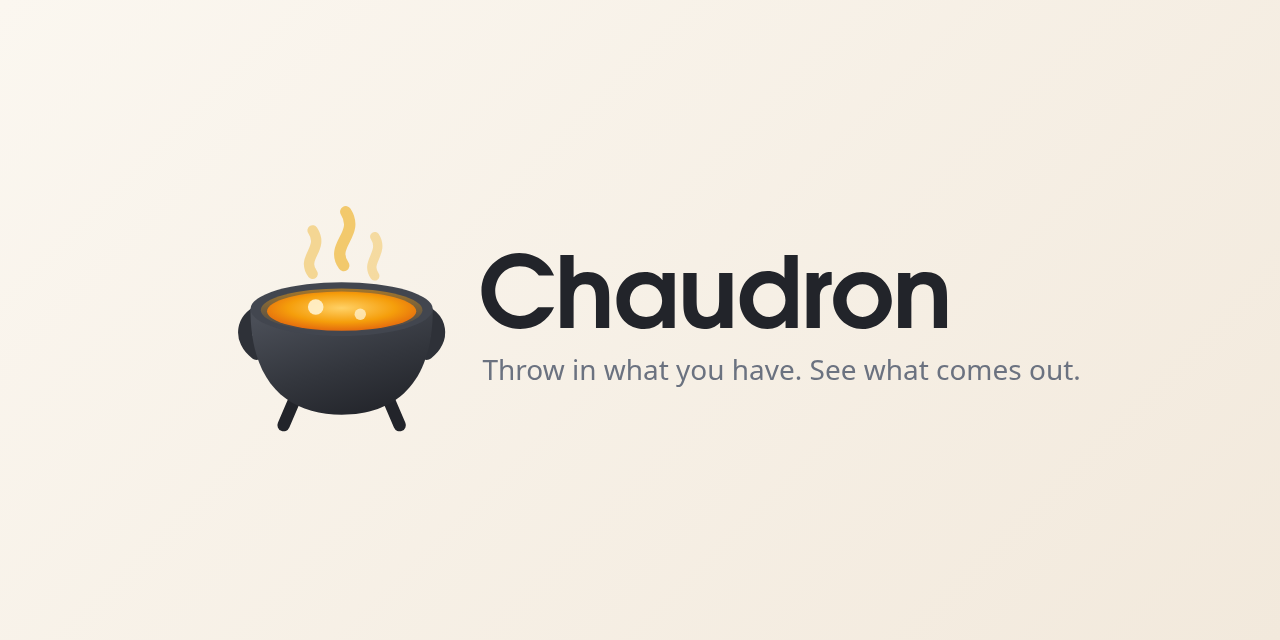
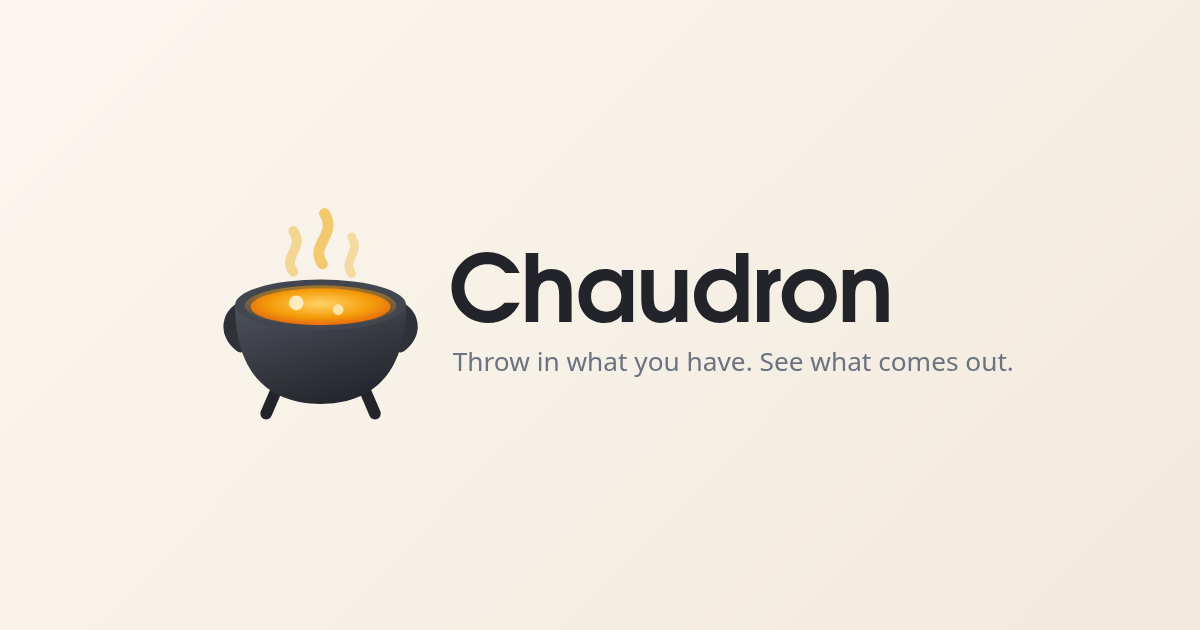
fix(brand): make the share card the ratio the platforms actually crop to
The Open Graph image was 1280x640 — a 2.00 ratio, where Facebook, LinkedIn and
X lay their large cards out on 1.91:1. Close enough to look right in a file
manager, and wrong everywhere it is used: each platform centre-crops, taking
about 4.5% off the height. The logo is centred so it survived, but nothing in
the pipeline said so, and the next visual with anything near an edge would have
been quietly beheaded once the link was posted.

Now 1200x630, with the logo keeping its share of the frame (880/1280 of the
width becomes 825/1200, height following its own 3.398:1 ratio rather than
being scaled independently). `og:image:width` and `og:image:height` in
index.html move with it — they are what stops the first share rendering as a
small thumbnail while the platform downloads and measures the file.

Also closes the gap that let this ship at all. `assets/` is generated and
`frontend/public/` is served, and the copy between them was manual: the
regenerated 1200x630 file sat in `assets/` while the page kept serving the
1280x640 one, with nothing comparing them. The generator now syncs the seven
web-served files itself and reports what it copied, so the two cannot drift
again. Re-running it a second time reports "already matches", which is the
check that the sync is real rather than unconditional.

Found by auditing the landing page against the StackOps web playbook, which
specifies the ratio and the width/height declaration by name.

diff --git a/frontend/index.html b/frontend/index.html
@@ -55,8 +55,8 @@
     />
     <meta property="og:image" content="__SITE_URL__/social-preview.png" />
     <meta property="og:image:type" content="image/png" />
-    <meta property="og:image:width" content="1280" />
-    <meta property="og:image:height" content="640" />
+    <meta property="og:image:width" content="1200" />
+    <meta property="og:image:height" content="630" />
     <meta
       property="og:image:alt"
       content="Le logo Chaudron : un chaudron en fonte et son contenu incandescent."

diff --git a/tools/generate-assets.py b/tools/generate-assets.py
@@ -17,9 +17,11 @@ Never hand-edit the generated PNGs. Edit the SVG, re-run this, commit both.
 from __future__ import annotations
 
 import asyncio
+import shutil
 import struct
 import sys
 from pathlib import Path
+from typing import Final
 
 from playwright.async_api import Browser, async_playwright
 
@@ -190,20 +192,31 @@ async def render_all() -> list[Path]:
             await shoot(browser, page_html(logo, 720, 212), 720, 212, ASSETS / "logo.png")
         )
 
+        # 1200x630, and the numbers are not arbitrary: that is 1.91:1, the ratio
+        # Facebook, LinkedIn and X lay their large cards out on. This was
+        # 1280x640 -- a 2.00 ratio, close enough to look right in a file manager
+        # and wrong everywhere it is actually used, because each platform
+        # centre-crops to 1.91:1 and takes roughly 4.5% off the height. With the
+        # logo centred that is survivable; with anything near the top or bottom
+        # edge it is a beheading, and it only shows up once the link is posted.
+        #
+        # The logo keeps its share of the frame: 880/1280 of the width becomes
+        # 825/1200, and its height follows its own aspect ratio (3.398:1) rather
+        # than being scaled independently.
         social = (
             "<!doctype html><meta charset=utf-8><style>html,body{margin:0}"
-            ".c{width:1280px;height:640px;"
+            ".c{width:1200px;height:630px;"
             "background:linear-gradient(135deg,#FBF7F0,#F2E9DC);"
             "display:flex;align-items:center;justify-content:center}"
-            "svg{width:880px;height:259px;display:block}"
+            "svg{width:825px;height:243px;display:block}"
             "</style><div class=c>" + logo + "</div>"
         )
         written.append(
             await shoot(
                 browser,
                 social,
-                1280,
-                640,
+                1200,
+                630,
                 ASSETS / "social-preview.png",
                 transparent=False,
             )
@@ -214,12 +227,55 @@ async def render_all() -> list[Path]:
     return written
 
 
+#: The subset of `assets/` the site actually serves, and where it has to land.
+#: Everything else here is a source artefact: the SVGs, the two wordmark
+#: renderings, the three favicon sizes that only exist to be packed into the
+#: `.ico`.
+#:
+#: This list exists because the copy used to be manual, and manual worked right
+#: up until it didn't: `social-preview.png` was regenerated at 1200x630 and
+#: `frontend/public/` kept serving the 1280x640 one, so the Open Graph card in
+#: the shipped page was the old image while the file beside it was the new one.
+#: Nothing reports that. The two are only ever compared by whoever happens to
+#: post the link.
+_WEB_SERVED: Final = (
+    "favicon.ico",
+    "icon.svg",
+    "icon-192.png",
+    "icon-512.png",
+    "icon-maskable-512.png",
+    "apple-touch-icon.png",
+    "social-preview.png",
+)
+
+
+def sync_public() -> list[Path]:
+    """Copy the served assets into `frontend/public/`, returning what changed."""
+    public = ROOT / "frontend" / "public"
+    changed: list[Path] = []
+    for name in _WEB_SERVED:
+        source, target = ASSETS / name, public / name
+        if not source.exists():
+            raise SystemExit(f"{source} is missing; generation did not complete")
+        if not target.exists() or target.read_bytes() != source.read_bytes():
+            shutil.copyfile(source, target)
+            changed.append(target)
+    return changed
+
+
 def main() -> None:
     report(asyncio.run(render_all()))
     build_ico(
         [(s, ASSETS / f"favicon-{s}.png") for s in (16, 32, 48)],
         ASSETS / "favicon.ico",
     )
+    updated = sync_public()
+    if updated:
+        sys.stdout.write("\nCopied into frontend/public/:\n")
+        for path in updated:
+            sys.stdout.write(f"  {path.relative_to(ROOT)}\n")
+    else:
+        sys.stdout.write("\nfrontend/public/ already matches assets/\n")
 
 
 if __name__ == "__main__":
